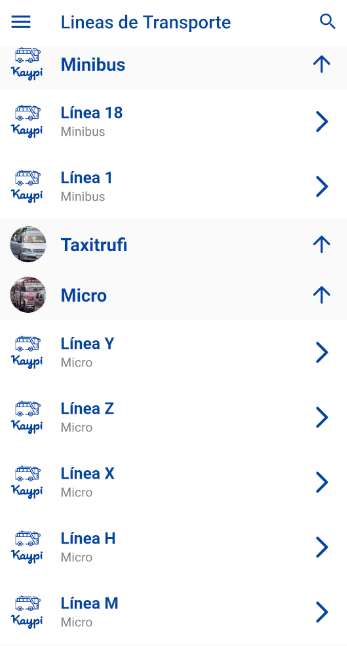
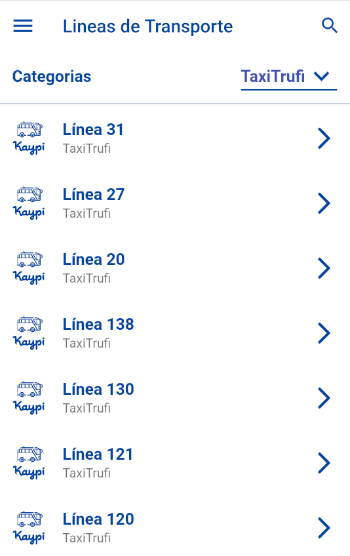
Agregando imagenes actualizadas a la pagina de ayuda

diff --git a/lib/pages/configuracion/configuracion.dart b/lib/pages/configuracion/configuracion.dart
@@ -11,9 +11,6 @@ class Configuracion extends StatefulWidget {
 }
 
 class _ConfiguracionState extends State<Configuracion> {
-  bool modoOscuro = false;
-  String dropdownvalue = 'Español';
-  var items =  ['Español','Ingles','Portugués'];
   @override
   Widget build(BuildContext context) {
     return MaterialApp(
@@ -37,41 +34,7 @@ class _ConfiguracionState extends State<Configuracion> {
            SizedBox(
                 width: 200,
            ),
-           ListTile(
-              tileColor: Colors.white,
-              leading:  
-           
-            Icon(
-                Icons.language,
-                size: 30.0,
-                color: Colors.blue.shade900,
-              ),
-             
-              title: Text(
-                "Cambiar idioma",
-                style: TextStyle(
-                    fontSize: 18.0,
-                    fontWeight: FontWeight.bold,
-                    color: Colors.blue.shade900),
-              ),
-             trailing:DropdownButton(
-                value: dropdownvalue,
-                style: const TextStyle(color: Colors.indigo,fontWeight: FontWeight.bold),
-                  icon: Icon(Icons.keyboard_arrow_down, color: Colors.blue.shade900,),
-                  items:items.map((String items) {
-                       return DropdownMenuItem(
-                           value: items,
-                           child: Text(items)
-                       );
-                  }
-                  ).toList(),
-                onChanged: (String? newValue) {
-                 setState(() {             
-                 dropdownvalue = newValue!;             
-                 });
-                },
-              ),
-           ),
+         
              SizedBox(
                 width: 200,
            ),

diff --git a/lib/pages/ayuda/ayudaKaypi.dart b/lib/pages/ayuda/ayudaKaypi.dart
@@ -83,11 +83,11 @@ class _AyudaKaypiState extends State<AyudaKaypi> {
     elementos.add(new CardItem(
 
         ///intancia los atributos
-        "Configuración",
-        "Cambia el tema de la aplicación, busca ayuda para las funciones de la aplicacion",
+        "Configuración y Ayuda",
+        "Busca ayuda para las funciones de la aplicacion y encuentra informacion sobre el desarrollo de la app",
         "assets/img/ayudaImg/configuracionayuda.png",
         [
-          "Modifcar al tema de su preferencia. \nVer la guia de la aplicación. \nVer informacion relacionada con el desarrollo de la aplicación."
+          "Ver la guia de la aplicación. \nVer informacion relacionada con el desarrollo de la aplicación."
         ],
         [
           ///hace llamdo a las imagenes a usar
